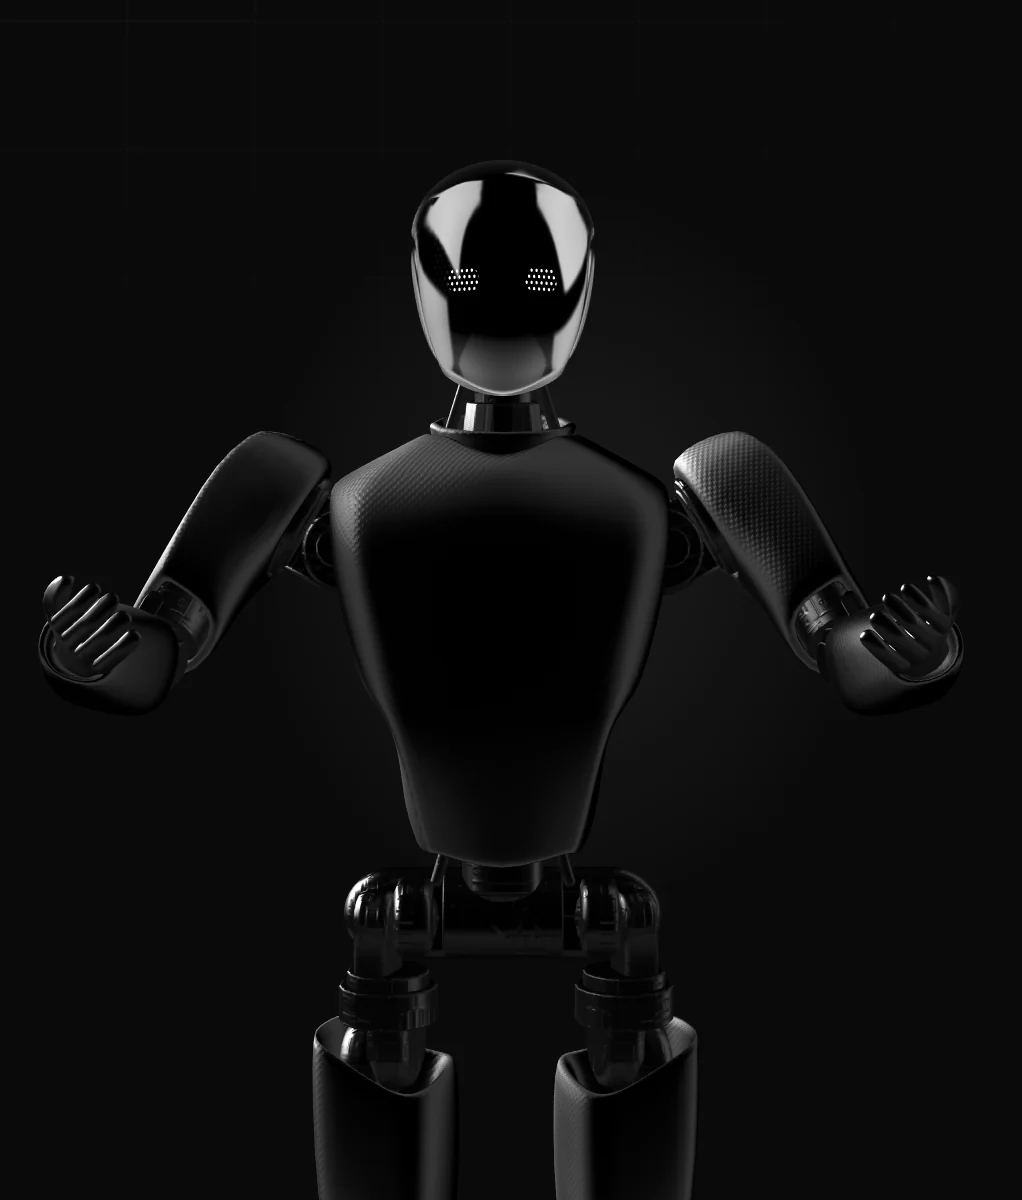
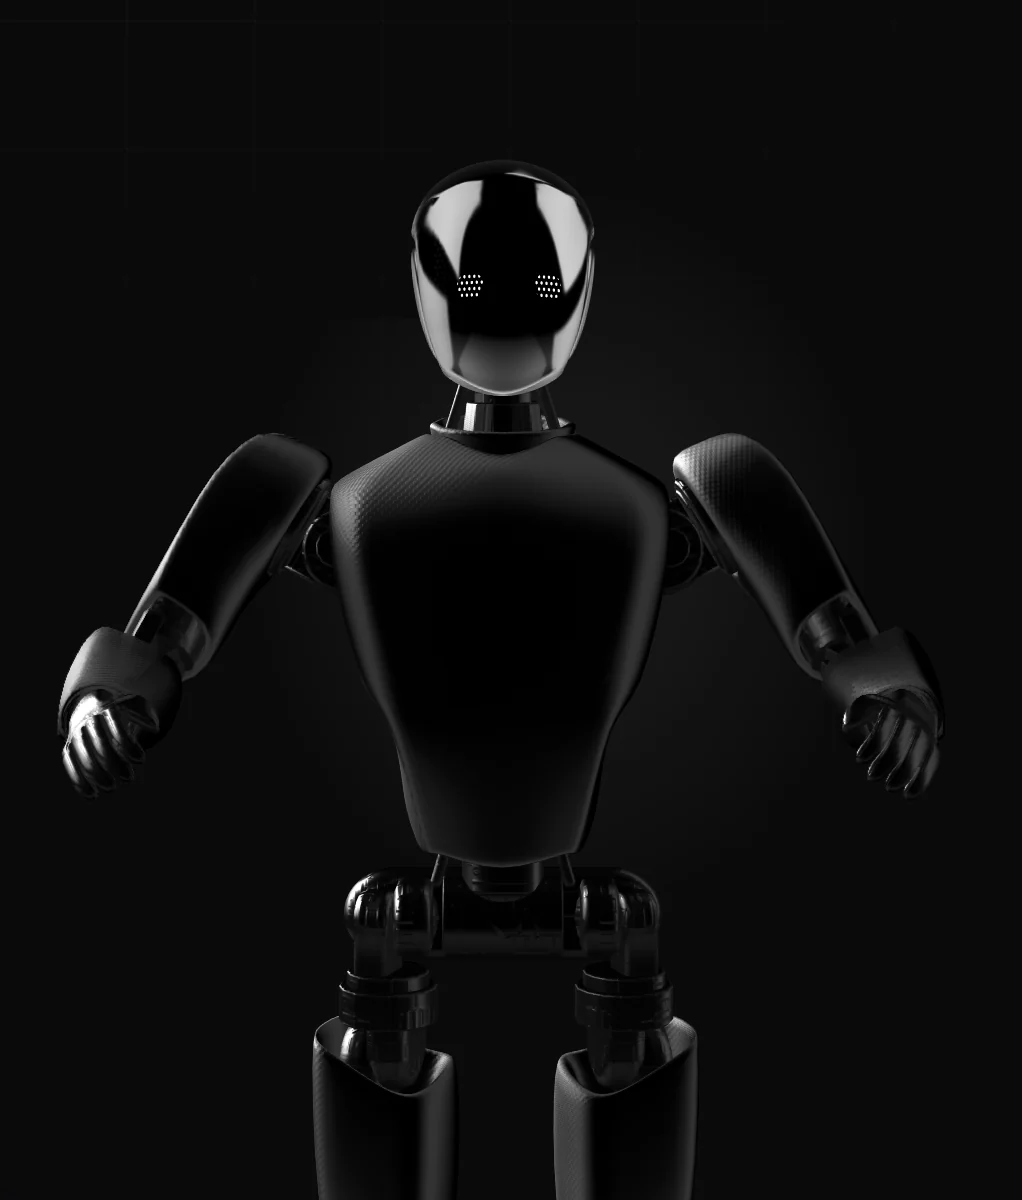
Robot: pin camera to skip intro dolly — instant, zoomed-in, interactive
- The scene's "start" event dollied the camera in from close (z≈360) to
  its resting frame (z≈1000) over ~2s, which read as a jarring zoom on
  reload and forced a long wait to hide it. Pin "Camera 2" to its resting
  transform every frame for a few seconds so the dolly never plays: the
  robot sits at its default (zoomed-in) framing from the first frame.
- Reveal the live robot as soon as it loads (drop the zoom-out and the
  ~2.8s wait), so it becomes cursor-interactive right away instead of ~6s.
- Poster re-captured at the default (zoomed-in) framing so it matches the
  live robot exactly — seamless cross-fade, no zoom change.
- Verified: constant zoom across the whole load, head tracks the cursor
  both directions.

diff --git a/src/components/Hero.tsx b/src/components/Hero.tsx
@@ -68,24 +68,31 @@ export function Hero() {
 
   const revealRobot = (spline: Application) => {
     splineRef.current = spline;
-    // The scene plays a ~2s intro camera dolly that starts zoomed-in. Keep the
-    // zoomed-out poster up while it plays; once it's done, pull the camera back a
-    // single time (it holds after the intro) and cross-fade to the live robot.
-    // Result: the robot stays at the poster's zoom — no zoom-in on reload.
-    window.setTimeout(() => {
-      try {
-        spline.setZoom(0.5);
-      } catch {
-        /* older runtimes may not expose setZoom */
-      }
-      window.requestAnimationFrame(() => setReady(true));
-    }, 2800);
+    // The scene's "start" event dollies the camera in from close (z≈360) to its
+    // resting frame (z≈1000). Pin the camera to the resting transform every frame
+    // for a few seconds so that dolly never plays — the robot is at its default
+    // (zoomed-in) framing from the first frame and is interactive immediately.
+    const cam = spline.findObjectByName("Camera 2");
+    const pin = () => {
+      if (!cam) return;
+      cam.position.x = 0;
+      cam.position.y = 146.98;
+      cam.position.z = 1000;
+    };
+    pin();
+    const t0 = performance.now();
+    const hold = () => {
+      pin();
+      if (performance.now() - t0 < 3500) window.requestAnimationFrame(hold);
+    };
+    window.requestAnimationFrame(hold);
+    window.requestAnimationFrame(() => setReady(true));
   };
 
   useEffect(() => {
     if (!mounted) return;
     // Fallback: if the scene never fires onLoad, still reveal it eventually.
-    const t = window.setTimeout(() => setReady(true), 6000);
+    const t = window.setTimeout(() => setReady(true), 4000);
     return () => window.clearTimeout(t);
   }, [mounted]);
 